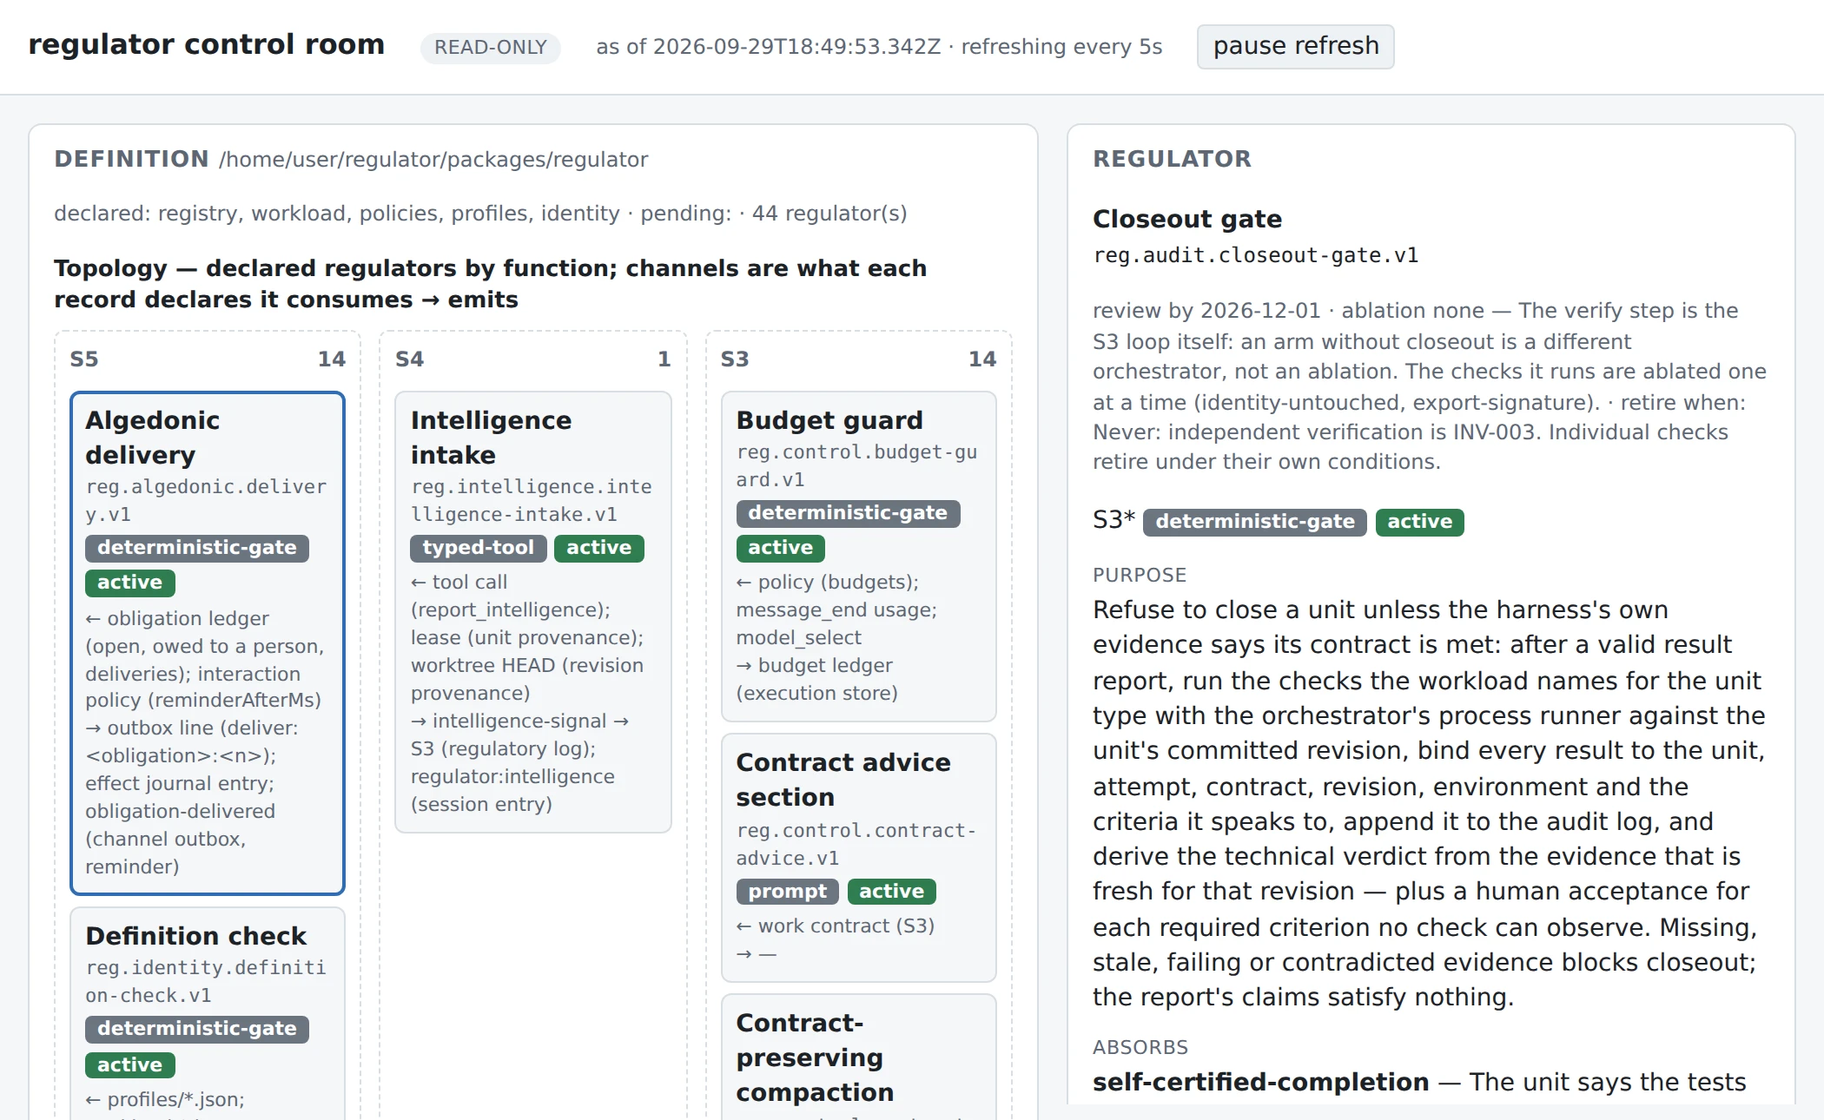
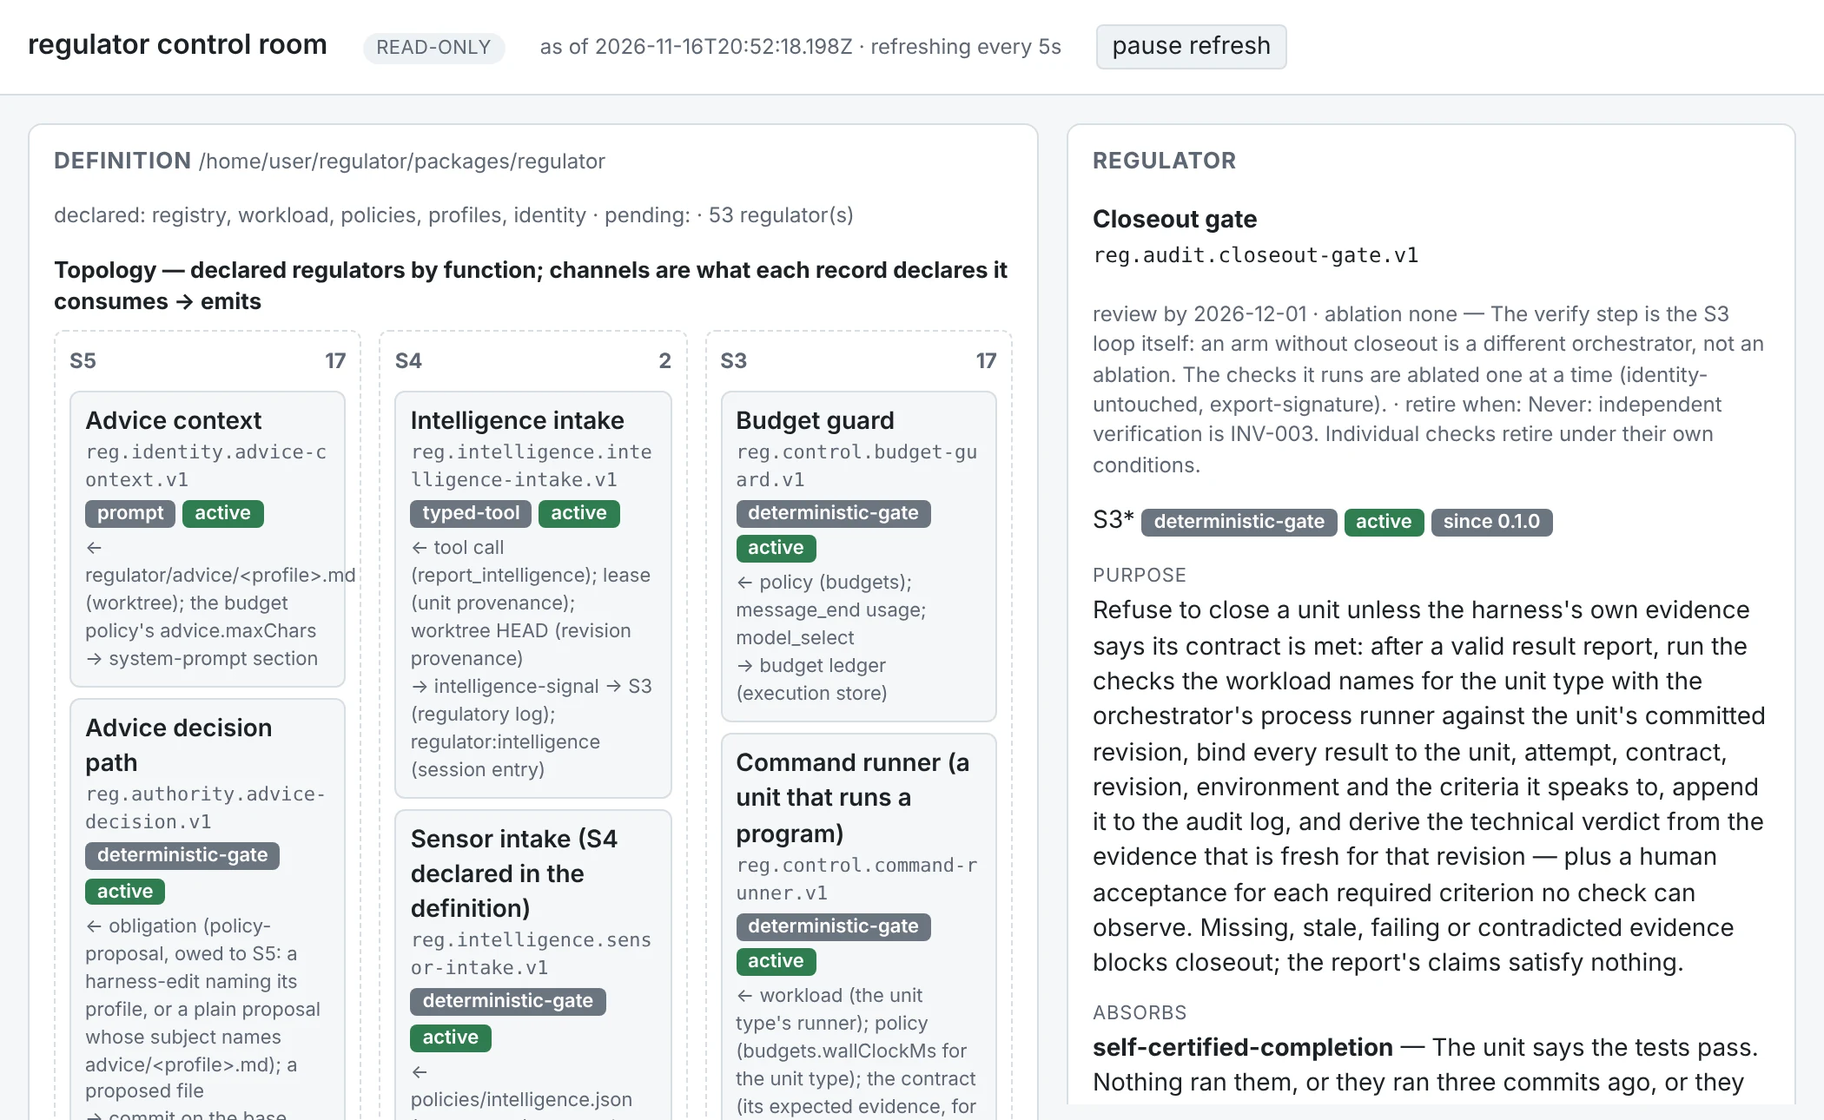
Product, course and how-it-works pages brought level with the product
The registry is 53 records, 51 active; the Pi host loads twelve extensions;
0.1.3 is the current release; the debt ledger has 51 rows, 29 paid. The
status block no longer says a live eval report is owed: it says what the
first live report found and what the next one owes. The post-merge check is
the pre-merge trial. The metrics are open. The manager profile is named.
The control-room overview is retaken against the current registry.

Claude-Session: https://claude.ai/code/session_014uhRNqFCFdvFUxUkzJQCse

diff --git a/site/product.html b/site/product.html
@@ -481,7 +481,7 @@
     <table>
       <thead><tr><th>Name</th><th>Function</th><th>regulator's interpretation</th></tr></thead>
       <tbody>
-        <tr><td class="fn">S1 — Operations</td><td>The units that do the actual work, touching the world directly.</td><td>Capability profiles a workload declares: <code>implement</code>, <code>research</code>, <code>intelligence</code> for software, <code>bookkeeper</code> and <code>auditor</code> for the ledger. Each is a grant over tool effects, and a workload in any domain can declare one.</td></tr>
+        <tr><td class="fn">S1 — Operations</td><td>The units that do the actual work, touching the world directly.</td><td>Capability profiles a workload declares: <code>implement</code>, <code>research</code>, <code>intelligence</code> for software, <code>bookkeeper</code> and <code>auditor</code> for the ledger, <code>manager</code> for the portfolio. Each is a grant over tool effects, and a workload in any domain can declare one.</td></tr>
         <tr><td class="fn">S2 — Coordination</td><td>Keeps operations from colliding with or thrashing against each other.</td><td>Tool contracts, worktree isolation, leases with liveness, reintegration, anti-oscillation mechanisms</td></tr>
         <tr><td class="fn">S3 — Control</td><td>Decides what happens next (dispatch, budget, recovery), facing inside the system, now.</td><td>The orchestrator: work contracts, dispatch, budgets, the recovery lattice, execution-state authority</td></tr>
         <tr><td class="fn">S3&#42; — Audit</td><td>Verifies operations' work independently, without trusting their own report of it.</td><td>Harness-run verification plus architectural/domain checks and independent audit findings</td></tr>
@@ -518,10 +518,10 @@
                   bound to a revision, the technical verdict
   regulator/      the control plane: the `regulator` CLI, the S3 loop,
                   the stores, the host seam, and the definition —
-                  registry (43 records), identity, profiles, policies,
+                  registry (53 records), identity, profiles, policies,
                   workloads, the drift eval suite and its committed
                   reports; OPERATING.md says who runs what
-  regulator-pi/   the Pi host: the eleven session extensions, the
+  regulator-pi/   the Pi host: the twelve session extensions, the
                   dispatcher, the S5 write gate, typed proposal /
                   audit-finding / uncertainty tools; `pi install`
   control-room/   read-only page over the `regulator status` read
@@ -683,7 +683,7 @@
     <tr><td><b>Trajectory</b></td><td>the records the control plane wrote while the unit ran</td><td>refusals, retries, escalations, invariant violations, attempts, tokens, turns, wall clock</td></tr>
   </table></div>
   <p style="font-size:13.5px;color:var(--ink-dim);margin:18px 0 0;"><b style="color:var(--ink);">Pre-registered, and interpreted by a person.</b>
-    The metrics are a closed list named in the suite, so a run cannot discover a favourable one afterwards. Arms are summarized with Student's t intervals and a lift is screened by interval overlap, never a p-value. And a report is not a report until someone says what it means: <code>regulator eval</code> without <code>--interpretation</code> writes a placeholder, and <code>regulator check</code> refuses a committed report that still carries it. The four committed reports ran scripted units — their numbers validate the graders, not a model — and one of them is the over-regulation case that changed the product: a check refused correct work over a word in a commit message, and the workload now declares that half advisory.</p>
+    The metrics are named in the suite before it runs, built-in or declared by a workload with its own grader, so a run cannot discover a favourable one afterwards. Arms are summarized with Student's t intervals and a lift is screened by interval overlap, never a p-value. And a report is not a report until someone says what it means: <code>regulator eval</code> without <code>--interpretation</code> writes a placeholder, and <code>regulator check</code> refuses a committed report that still carries it. Seven of the eight committed reports ran scripted units — their numbers validate the graders, not a model — and one of them is the over-regulation case that changed the product: a check refused correct work over a word in a commit message, and the workload now declares that half advisory.</p>
   <p style="font-size:13px;color:var(--ink-dim);margin:18px 0 0;"><b style="color:var(--ink);">In the docs:</b> <a href="https://docs.regulator.metacoding.io/concepts/evidence-about-the-regulators">Evidence about the regulators</a> · <a href="https://docs.regulator.metacoding.io/reference/definition#eval-suites">Eval suites</a></p>
 </section>
 
@@ -732,8 +732,8 @@
     <div><b style="color:var(--ink);">Inspector</b> — the whole record for a regulator or a unit, including the unit's replay in time order.</div>
   </div>
 
-  <figure class="shot"><img src="img/control-room/overview.webp" alt="The control room as it opens: the definition's topology of 44 regulators in S5 to S1 columns on the left, and the inspector on the right showing the closeout gate's record." loading="lazy">
-    <figcaption><b>The page as it opens.</b> Left, the definition: 44 regulators by function, each card showing the channels it consumes and emits. Right, the inspector on a selected card, here the closeout gate's whole record: purpose, what it absorbs, mechanism, authority, evidence, limitations, review date, ablation, retirement.</figcaption></figure>
+  <figure class="shot"><img src="img/control-room/overview.webp" alt="The control room as it opens: the definition's topology of 53 regulators in S5 to S1 columns on the left, and the inspector on the right showing the closeout gate's record." loading="lazy">
+    <figcaption><b>The page as it opens.</b> Left, the definition: 53 regulators by function, each card showing the channels it consumes and emits. Right, the inspector on a selected card, here the closeout gate's whole record: purpose, what it absorbs, mechanism, authority, evidence, limitations, review date, ablation, retirement.</figcaption></figure>
 
   <p style="font-size:13.5px;color:var(--ink-dim);margin-top:14px;">More of the page (units,
     leases and obligations for a live instance, the assurance and lifecycle views, a unit's
@@ -785,23 +785,23 @@ regulator unit show u1 · unit evidence u1 · obligations</pre>
   <div style="display:flex;flex-direction:column;gap:12px;font-size:13.5px;color:var(--ink-dim);margin-bottom:22px;">
     <div><b style="color:var(--ink);">The loop runs.</b> Contract, dispatch, verify, route, close — with <button type="button" class="gl" data-term="lease">leases</button>, budgets, a versioned recovery policy, and a <button type="button" class="gl" data-term="closeout">closeout gate</button> that trusts host-run evidence, never a unit's own claim about itself. An identity set is rendered from the files, write-protected, and checked at closeout against the branch.</div>
     <div><b style="color:var(--ink);">The <button type="button" class="gl" data-term="algedonic">algedonic</button> path is in.</b> A unit can ask a person through one typed tool; only a nonblocking recap continues without an answer. An unanswered question pauses the unit by gate; what's owed to a person is delivered and reminded; who may answer is declared and checked.</div>
-    <div><b style="color:var(--ink);">The regulators owe evidence now.</b> An eval harness runs the drift scenario under declared arms with outcome and trajectory graders. Four committed reports, one per scripted unit — the reference, the drifter, the sloppy one, and the self-certifier that deletes the tests it cannot pass — say where the gated arm loses. Every record carries an <button type="button" class="gl" data-term="ablation">ablation</button> switch and a retirement condition, and every instance store reads as OpenTelemetry spans. <a href="https://docs.regulator.metacoding.io/concepts/evidence-about-the-regulators">Evidence about the regulators ↗</a></div>
-    <div><b style="color:var(--ink);">And it operates.</b> The lab installs as a Pi package; <code>regulator init</code> installs it into an existing repository under a declared manifest; <code>doctor</code> checks the instance before the first unit and in CI; the base is re-verified after every merge and a failure holds the whole instance; refused words are linted out; the outbox is watched; an identity decision promotes back into the definition.</div>
+    <div><b style="color:var(--ink);">The regulators owe evidence now.</b> An eval harness runs the drift scenario under declared arms with outcome and trajectory graders. Eight committed reports say where the gated arm loses: seven over scripted units — among them the reference, the drifter, the sloppy one, the confident one, and the self-certifier that deletes the tests it cannot pass — and the first under a live model. Every record carries an <button type="button" class="gl" data-term="ablation">ablation</button> switch and a retirement condition, and every instance store reads as OpenTelemetry spans. <a href="https://docs.regulator.metacoding.io/concepts/evidence-about-the-regulators">Evidence about the regulators ↗</a></div>
+    <div><b style="color:var(--ink);">And it operates.</b> The lab installs as a Pi package; <code>regulator init</code> installs it into an existing repository under a declared manifest; <code>doctor</code> checks the instance before the first unit and in CI; the merged tree is checked before every merge and only a passing one lands; refused words are linted out; the outbox is watched; an identity decision promotes back into the definition.</div>
   </div>
   <p style="font-size:13px;color:var(--ink-dim);margin:0 0 14px;"><code>docs/DEBT.md</code> tracks
-    every gap the build has taken on deliberately, one row per item: forty-one rows so far, most
-    already paid as later lessons closed them. What's still open, and worth knowing before
+    every gap the build has taken on deliberately, one row per item: fifty-one rows so far, twenty-nine
+    of them paid as later work closed them. What's still open, and worth knowing before
     you rely on this:</p>
   <div style="display:flex;flex-direction:column;gap:10px;font-size:13px;color:var(--ink-dim);margin-bottom:22px;">
-    <div><b style="color:var(--ink);">A live eval report is still owed.</b> The four committed drift-scenario reports ran scripted units; the session's own gates — profile grants, the write gate, the bash watch, the budget guard — weren't exercised, so the numbers validate the graders, not yet a model against the harness.</div>
+    <div><b style="color:var(--ink);">The live evidence is one report, and it measures cost.</b> The first live run, three repetitions of the control and treatment arms on one model, closed every unit under both: the model did not drift on this fixture, so the gates had nothing to catch. It prices the regulation (about 65% more tokens per unit) and is not yet evidence that regulation prevents drift. The ablation arms under a model, and a fixture that pulls toward drift, are what the next report owes.</div>
     <div><b style="color:var(--ink);">The capstone rubric is specified, not calibrated.</b> It hasn't yet been checked against a real learner submission.</div>
     <div><b style="color:var(--ink);">Isolation is the container's job, not the harness's.</b> <code>bash</code> sits outside the thrash detector, the effect journal, and the failure observer by design; real sandboxing is left to the operator, not built by the lab.</div>
     <div><b style="color:var(--ink);">One machine at a time.</b> Leases and the effect journal live on a single host; two harnesses on two machines can't yet see each other's intentions — that's deferred with full VSM recursion.</div>
     <div><b style="color:var(--ink);"><code>--by</code> is asserted, not authenticated.</b> Disposition authority checks whether the named person may decide, not that the caller is that person; authentication is the deployment's to add.</div>
   </div>
   <div class="cards">
-    <div class="card"><div class="k">6</div><div class="l">Packages, released together (0.1.4 is current) under Apache-2.0: <code>@metacoding.io/regulator</code> (the control plane and CLI), <code>regulator-pi</code> (the Pi host), <code>regulator-protocol</code>, <code>regulator-core</code>, <code>regulator-checks</code> and <code>regulator-control-room</code>, tested without a model under CI on two Node versions</div></div>
-    <div class="card"><div class="k">44</div><div class="l">Records in the <button type="button" class="gl" data-term="registryterm">registry</button>, 42 active and two retired, each with a stated limitation, an ablation switch and a retirement condition, with <code>REGULATORS.md</code> and <code>BOUNDARY.md</code> generated from the records</div></div>
+    <div class="card"><div class="k">6</div><div class="l">Packages, released together (0.1.3 is current) under Apache-2.0: <code>@metacoding.io/regulator</code> (the control plane and CLI), <code>regulator-pi</code> (the Pi host), <code>regulator-protocol</code>, <code>regulator-core</code>, <code>regulator-checks</code> and <code>regulator-control-room</code>, tested without a model under CI on two Node versions</div></div>
+    <div class="card"><div class="k">53</div><div class="l">Records in the <button type="button" class="gl" data-term="registryterm">registry</button>, 51 active and two retired, each with a stated limitation, an ablation switch and a retirement condition, with <code>REGULATORS.md</code> and <code>BOUNDARY.md</code> generated from the records</div></div>
     <div class="card"><div class="k">15 / 15</div><div class="l">Lessons written end to end, with the capstone viability case specified and its rubric awaiting calibration</div></div>
   </div>
 
@@ -811,7 +811,7 @@ regulator unit show u1 · unit evidence u1 · obligations</pre>
 <section id="coming" class="wrap">
   <div class="kicker">What's coming<span class="tick"></span></div>
   <h2 class="title">The level above: a reflector as the definition's S4</h2>
-  <p class="lede">regulator regulates one recursion level today. Inside an instance every channel is typed and every writer is named. The level above, the definition the instance was seeded from, is run by people, and for <button type="button" class="gl" data-term="s4">S4</button> at that level there is a checklist a person runs. The next design, proposed and not yet built, draws that level in. A <em>reflector</em> reads the records every instance already writes and emits three record kinds that already exist: a memory fact, an intelligence signal, and a proposal owed to <button type="button" class="gl" data-term="s5">S5</button>. A proposed edit to an advice file is probed as an eval arm before a person accepts it. The reflector never writes a definition file and never schedules a unit, because it has no tool that does.</p>
+  <p class="lede">regulator regulates one recursion level today. Inside an instance every channel is typed and every writer is named. The level above, the definition the instance was seeded from, is run by people, and for <button type="button" class="gl" data-term="s4">S4</button> at that level there is a checklist a person runs. The next design, proposed and not yet built, draws that level in. A <em>reflector</em> reads the records every instance already writes and emits three record kinds that already exist: a memory fact, an intelligence signal, and a proposal owed to <button type="button" class="gl" data-term="s5">S5</button>. A proposed edit to an advice file is probed as an eval arm before a person accepts it; that probe, the prediction a proposal stakes and the accept path for advice have already landed, and the reflector itself has not. The reflector never writes a definition file and never schedules a unit, because it has no tool that does.</p>
   <p style="font-size:13.5px;color:var(--ink-dim);margin:0 0 18px;"><b style="color:var(--ink);">Why not call it an improver.</b> The card has to be able to say "did not improve" without contradicting itself. It is registered as an <em>instrument</em>, graded on calibration: did the proposals a person accepted move the metric they named? Google's Harness² has the same component under the same name and lets it adopt its own edits; the second figure is where the two designs part.</p>
   <h3 class="sub">Before: one level regulated, the level above by hand</h3>
   <div class="diagram-shell" style="overflow-x:auto;">
@@ -828,7 +828,7 @@ regulator unit show u1 · unit evidence u1 · obligations</pre>
     </g>
     <g class="gl fig-hot" tabindex="0" role="button" data-term="fig-registry" aria-label="Registry" data-label="Registry" data-def="One record per regulator: what it absorbs, its mechanism level, its evidence, its limitation, its ablation switch and its retirement condition. &lt;code&gt;REGULATORS.md&lt;/code&gt; and &lt;code&gt;BOUNDARY.md&lt;/code&gt; are rendered from the records." data-href="https://docs.regulator.metacoding.io/concepts/control-plane#the-regulators">
       <rect x="46" y="58" width="108" height="34" rx="3" fill="var(--surface-2)" stroke-width="1.2"/>
-      <text x="100" y="79" stroke="none" text-anchor="middle" font-size="11.5">registry (43)</text>
+      <text x="100" y="79" stroke="none" text-anchor="middle" font-size="11.5">registry (53)</text>
     </g>
     <g class="gl fig-hot" tabindex="0" role="button" data-term="fig-identity-seed" aria-label="Identity seed" data-label="Identity seed" data-def="The &lt;code&gt;IDENTITY&lt;/code&gt;, &lt;code&gt;INVARIANTS&lt;/code&gt;, &lt;code&gt;GLOSSARY&lt;/code&gt; and &lt;code&gt;BOUNDARIES&lt;/code&gt; files an instance starts from. Copied into &lt;code&gt;regulator/identity/&lt;/code&gt; at init and write-protected from then on." data-href="https://docs.regulator.metacoding.io/concepts/identity">
       <rect x="162" y="58" width="108" height="34" rx="3" fill="var(--surface-2)" stroke-width="1.2"/>
@@ -1039,7 +1039,7 @@ regulator unit show u1 · unit evidence u1 · obligations</pre>
     </g>
     <g class="gl fig-hot" tabindex="0" role="button" data-term="fig-registry" aria-label="Registry" data-label="Registry" data-def="One record per regulator: what it absorbs, its mechanism level, its evidence, its limitation, its ablation switch and its retirement condition. &lt;code&gt;REGULATORS.md&lt;/code&gt; and &lt;code&gt;BOUNDARY.md&lt;/code&gt; are rendered from the records." data-href="https://docs.regulator.metacoding.io/concepts/control-plane#the-regulators">
       <rect x="46" y="58" width="108" height="34" rx="3" fill="var(--surface-2)" stroke-width="1.2"/>
-      <text x="100" y="79" stroke="none" text-anchor="middle" font-size="11.5">registry (43)</text>
+      <text x="100" y="79" stroke="none" text-anchor="middle" font-size="11.5">registry (53)</text>
     </g>
     <g class="gl fig-hot" tabindex="0" role="button" data-term="fig-identity-seed" aria-label="Identity seed" data-label="Identity seed" data-def="The &lt;code&gt;IDENTITY&lt;/code&gt;, &lt;code&gt;INVARIANTS&lt;/code&gt;, &lt;code&gt;GLOSSARY&lt;/code&gt; and &lt;code&gt;BOUNDARIES&lt;/code&gt; files an instance starts from. Copied into &lt;code&gt;regulator/identity/&lt;/code&gt; at init and write-protected from then on." data-href="https://docs.regulator.metacoding.io/concepts/identity">
       <rect x="162" y="58" width="108" height="34" rx="3" fill="var(--surface-2)" stroke-width="1.2"/>

diff --git a/site/index.html b/site/index.html
@@ -596,7 +596,7 @@
     the same way, one checkpoint per lesson.</p>
   <div class="cards">
     <div class="card"><div class="k">0–14</div><div class="l">Lab checkpoints already built and tested, the exact path the course walks you through</div></div>
-    <div class="card"><div class="k">44</div><div class="l">Records in the registry, 42 active and two retired, each with a stated limitation, an ablation switch and a retirement condition</div></div>
+    <div class="card"><div class="k">53</div><div class="l">Records in the registry, 51 active and two retired, each with a stated limitation, an ablation switch and a retirement condition</div></div>
     <div class="card"><div class="k">15 / 15</div><div class="l">Modules written end to end, plus both primers. Nothing in the syllabus above is a placeholder</div></div>
   </div>
   <p style="font-size:13.5px;color:var(--ink-dim);margin-top:18px;">The full architecture

diff --git a/site/how-it-works.html b/site/how-it-works.html
@@ -979,7 +979,7 @@
 <section id="session" class="wrap">
   <div class="kicker">Inside a session<span class="tick"></span></div>
   <h2 class="title">Where the gates sit in a session</h2>
-  <p class="lede">A unit's session is plain Pi with eleven extensions loaded in order (tools, profiles,
+  <p class="lede">A unit's session is plain Pi with twelve extensions loaded in order (tools, declared-tools, profiles,
     coordination, contract, budget, recovery, evidence, authority, intelligence, identity,
     algedonic), each hooking
     a handful of lifecycle events. Hover or tap a point on the line for what runs there.
